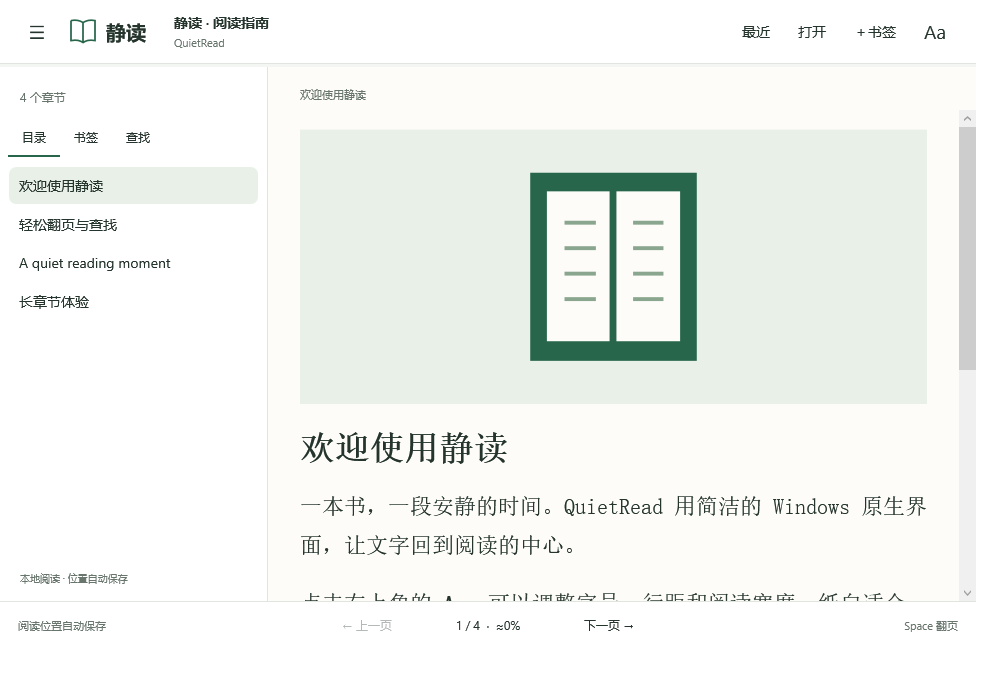
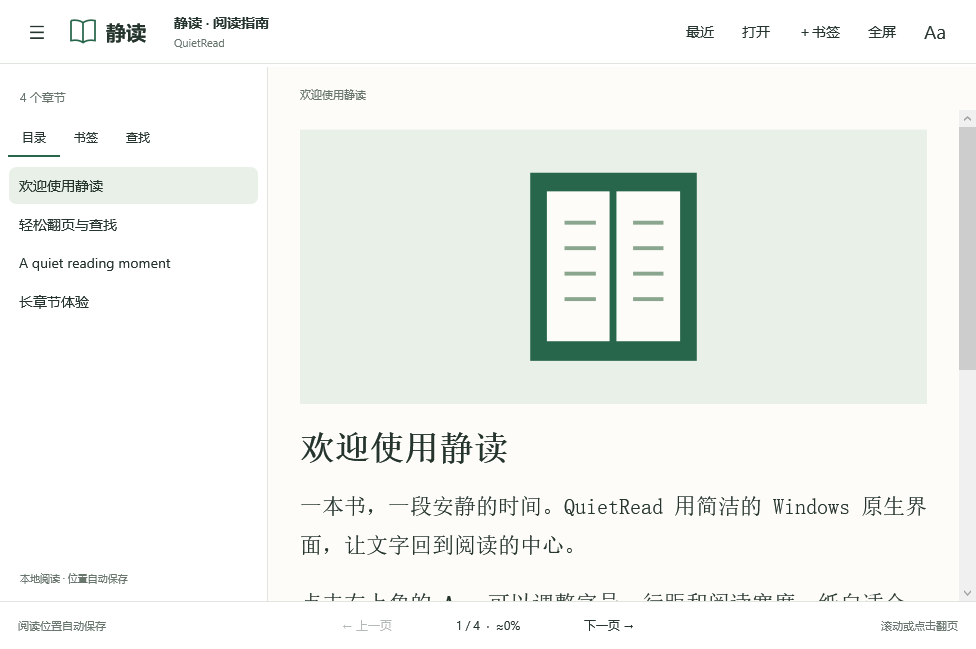
fix: highlight matches across text styles and refresh reader preview

diff --git a/src/QuietRead.App/MainWindow.xaml b/src/QuietRead.App/MainWindow.xaml
@@ -4,7 +4,7 @@
         Background="{DynamicResource AppBrush}" Foreground="{DynamicResource TextBrush}"
         FontFamily="Segoe UI, Microsoft YaHei UI" AllowDrop="True" Loaded="Window_Loaded"
         DragOver="Window_DragOver" Drop="Window_Drop" Closing="Window_Closing">
-  <Grid>
+  <Grid Background="{DynamicResource AppBrush}">
     <Grid.RowDefinitions><RowDefinition Height="64" /><RowDefinition Height="3" /><RowDefinition Height="*" /><RowDefinition Height="48" /></Grid.RowDefinitions>
     <Border Background="{DynamicResource PanelBrush}" BorderBrush="{DynamicResource BorderBrush}" BorderThickness="0,0,0,1">
       <Grid Margin="16,0">

diff --git a/src/QuietRead.App/DocumentRenderer.cs b/src/QuietRead.App/DocumentRenderer.cs
@@ -100,6 +100,7 @@ internal static class DocumentRenderer
         document.SetResourceReference(FlowDocument.BackgroundProperty, "ReaderBrush");
         blocks = [];
         int highlightsLeft = 1000;
+        Span<char> textBuffer = stackalloc char[ReaderLimits.BlockCharacters + 3];
         for (int i = start; i < end; i++)
         {
             BookBlock block = chapter.Blocks[i];
@@ -145,6 +146,8 @@ internal static class DocumentRenderer
             else
             {
                 var paragraph = new Paragraph();
+                IReadOnlyList<TextMatch> matches = FindMatches(block, textBuffer, highlight, ref highlightsLeft);
+                int offset = 0;
                 foreach (BookInline inline in block.Inlines)
                 {
                     Span span = inline.Link == null ? new Span() : new Hyperlink();
@@ -161,7 +164,8 @@ internal static class DocumentRenderer
                     { span.FontFamily = new FontFamily("Consolas, Microsoft YaHei UI"); span.FontSize = preferences.FontSize * 0.88; }
                     if (inline.Style.HasFlag(TextStyle.Superscript)) span.BaselineAlignment = BaselineAlignment.Superscript;
                     if (inline.Style.HasFlag(TextStyle.Subscript)) span.BaselineAlignment = BaselineAlignment.Subscript;
-                    AddRuns(span, inline.Text, highlight, ref highlightsLeft);
+                    AddRuns(span, inline.Text, matches, offset);
+                    offset += inline.Text.Length;
                     paragraph.Inlines.Add(span);
                 }
                 ApplyParagraph(paragraph, block, preferences);
@@ -173,20 +177,47 @@ internal static class DocumentRenderer
         return document;
     }
 
-    private static void AddRuns(Span span, string text, string query, ref int highlightsLeft)
+    private readonly record struct TextMatch(int Start, int End);
+
+    private static IReadOnlyList<TextMatch> FindMatches(BookBlock block, Span<char> buffer, string query, ref int highlightsLeft)
     {
-        if (string.IsNullOrEmpty(query)) { span.Inlines.Add(new Run(text)); return; }
-        int start = 0, highlighted = 0;
-        while (start < text.Length)
+        if (string.IsNullOrEmpty(query) || highlightsLeft <= 0) return Array.Empty<TextMatch>();
+        int length = 0;
+        for (int i = 0; i < block.Inlines.Count; i++)
         {
-            int at = highlighted < 128 && highlightsLeft > 0 ? text.IndexOf(query, start, StringComparison.OrdinalIgnoreCase) : -1;
-            if (at < 0) { span.Inlines.Add(new Run(text[start..])); break; }
-            if (at > start) span.Inlines.Add(new Run(text[start..at]));
-            var run = new Run(text.Substring(at, query.Length));
+            string text = block.Inlines[i].Text;
+            text.AsSpan().CopyTo(buffer[length..]); length += text.Length;
+        }
+        var matches = new List<TextMatch>();
+        ReadOnlySpan<char> content = buffer[..length];
+        int start = 0;
+        while (start < length && matches.Count < 128 && highlightsLeft > 0)
+        {
+            int found = content[start..].IndexOf(query.AsSpan(), StringComparison.OrdinalIgnoreCase);
+            if (found < 0) break;
+            int at = start + found;
+            matches.Add(new TextMatch(at, at + query.Length));
+            start = at + query.Length; highlightsLeft--;
+        }
+        return matches;
+    }
+
+    private static void AddRuns(Span span, string text, IReadOnlyList<TextMatch> matches, int offset)
+    {
+        if (matches.Count == 0) { span.Inlines.Add(new Run(text)); return; }
+        int position = 0;
+        foreach (TextMatch match in matches)
+        {
+            if (match.Start >= offset + text.Length) break;
+            if (match.End <= offset) continue;
+            int start = Math.Max(0, match.Start - offset), end = Math.Min(text.Length, match.End - offset);
+            if (start > position) span.Inlines.Add(new Run(text[position..start]));
+            var run = new Run(text.Substring(start, end - start));
             run.SetResourceReference(TextElement.BackgroundProperty, "HighlightBrush");
             run.SetResourceReference(TextElement.ForegroundProperty, "TextBrush");
-            span.Inlines.Add(run); start = at + query.Length; highlighted++; highlightsLeft--;
+            span.Inlines.Add(run); position = end;
         }
+        if (position < text.Length) span.Inlines.Add(new Run(text[position..]));
     }
 
     public static FontFamily Font(string choice) => new(choice switch

diff --git a/tests/QuietRead.UiTests/Program.cs b/tests/QuietRead.UiTests/Program.cs
@@ -127,6 +127,17 @@ internal static class Program
                         .SelectMany(p => p.Inlines.OfType<Hyperlink>()))
                         Require(link.NavigateUri == null, "Hyperlink could navigate outside the book.");
                 });
+                await Check("Search highlights a phrase crossing a bold text boundary", async () =>
+                {
+                    window.SearchBox.Text = "的 Aa";
+                    await window.SearchAsync();
+                    Require(window.SearchList.Items.Count > 0, "Cross-format search returned no results.");
+                    await window.NavigateAsync(0);
+                    string highlighted = string.Concat(window.Reader.Document.Blocks.OfType<Paragraph>()
+                        .SelectMany(p => p.Inlines.OfType<Span>()).SelectMany(s => s.Inlines.OfType<Run>())
+                        .Where(r => r.ReadLocalValue(TextElement.BackgroundProperty) != DependencyProperty.UnsetValue).Select(r => r.Text));
+                    Require(highlighted.Contains("的 Aa", StringComparison.Ordinal), "Highlight stopped at the bold boundary.");
+                });
                 await Check("Bookmark button stores one bookmark and rejects duplicates", () =>
                 {
                     window.BookmarkButton.RaiseEvent(new RoutedEventArgs(Button.ClickEvent));

diff --git a/docs/ARCHITECTURE.md b/docs/ARCHITECTURE.md
@@ -32,7 +32,7 @@
 | 格式、编译、分析器 | `dotnet format whitespace`；Release 编译；警告与 .NET 安全分析器错误会阻断构建 |
 | NuGet 审计 | 锁定依赖还原；审计直接/传递依赖的所有漏洞级别；已知漏洞会导致失败 |
 | Windows / Linux 核心测试 | 47 项核心、安全及兼容性回归；解析示例 EPUB；输出性能测量与 JSON 报告 |
-| Windows WPF 冒烟测试 | 实际显示窗口、封面解码、长章分段、导航、搜索、书签、主题、字号、按钮全屏、路径限制、换书/主页/关闭取消、保存与续读；输出真实窗口图和 JSON 报告 |
+| Windows WPF 冒烟测试 | 实际显示窗口、封面解码、长章分段、导航、搜索及跨排版高亮、书签、主题、字号、按钮全屏、路径限制、换书/主页/关闭取消、保存与续读；输出真实窗口图和 JSON 报告 |
 | 包验证 | Windows x64 GUI PE、运行时和许可证完整性、ZIP CRC 与 SHA-256；实际启动便携 EXE 打开示例书并正常关闭 |
 | CodeQL | 扫描 C# 和 GitHub Actions；错误和安全分值 ≥7 的高危/严重发现会失败；上传 [Security](https://github.com/lhy8888/epub/security/code-scanning) 和 SARIF 报告，每周重新扫描 |
 | Dependabot | 每周检查 Action 和 NuGet 更新，通过 PR 提交变更 |

diff --git a/CHANGELOG.md b/CHANGELOG.md
@@ -9,6 +9,7 @@
 - 限量读取元数据/目录标题，复用 fallback 解析结果，保留首个章节标题。
 - 限制取消后后台工作堆积，同章切段复用解析模型；清除换书残留正文，阻止过期回调修改主页，关闭时解除界面引用。
 - 拒绝所选路径中的重解析点，增加恶意文件和 Windows 界面回归。
+- 修复跨粗体/斜体边界的搜索高亮，更新实际界面截图。
 
 ## 0.1.0 — 2026-10-07
 
